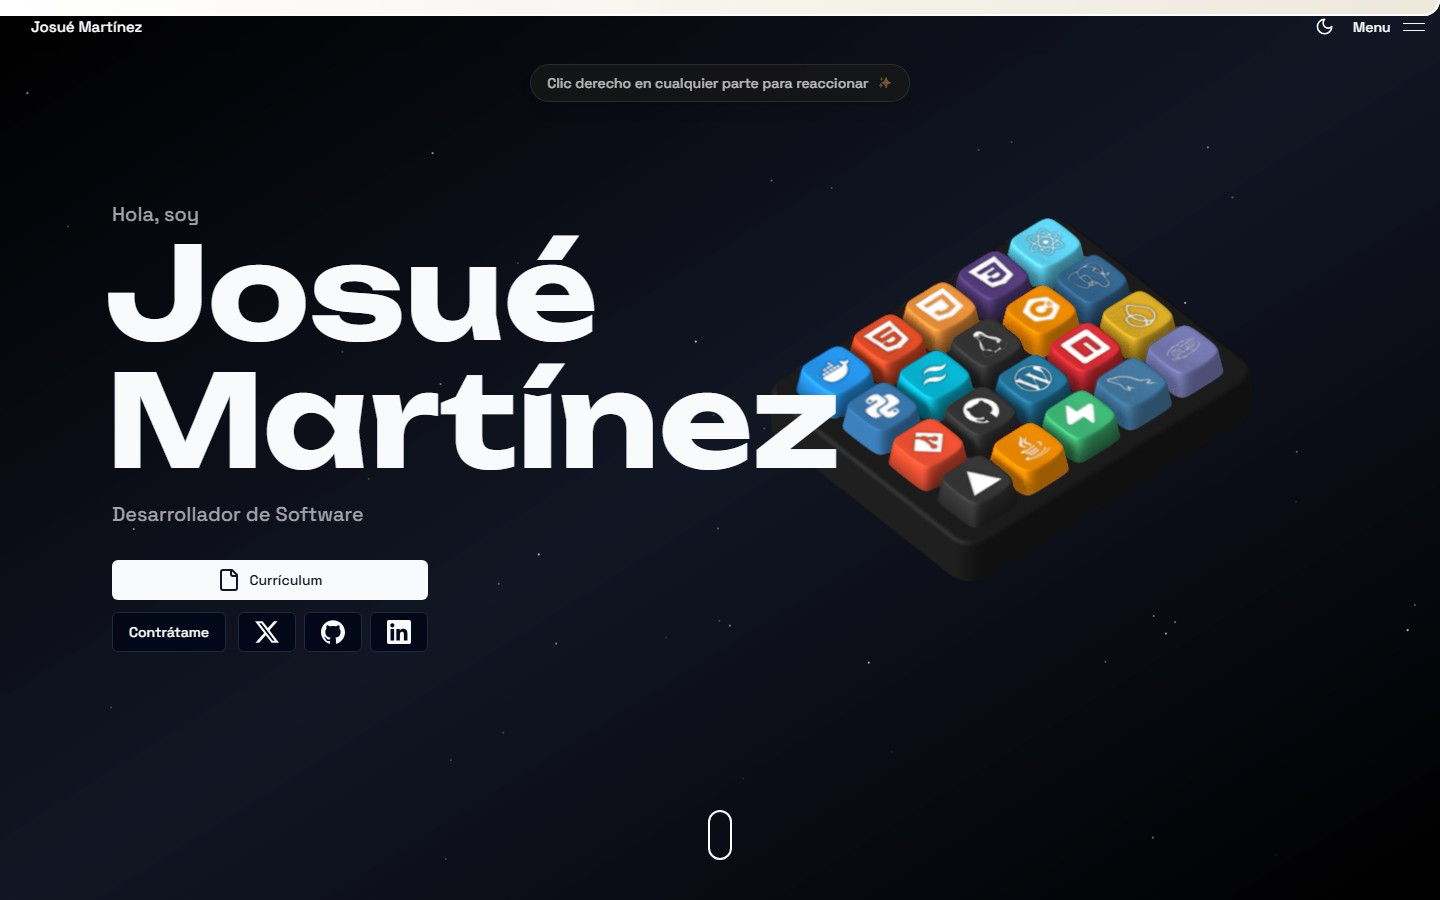
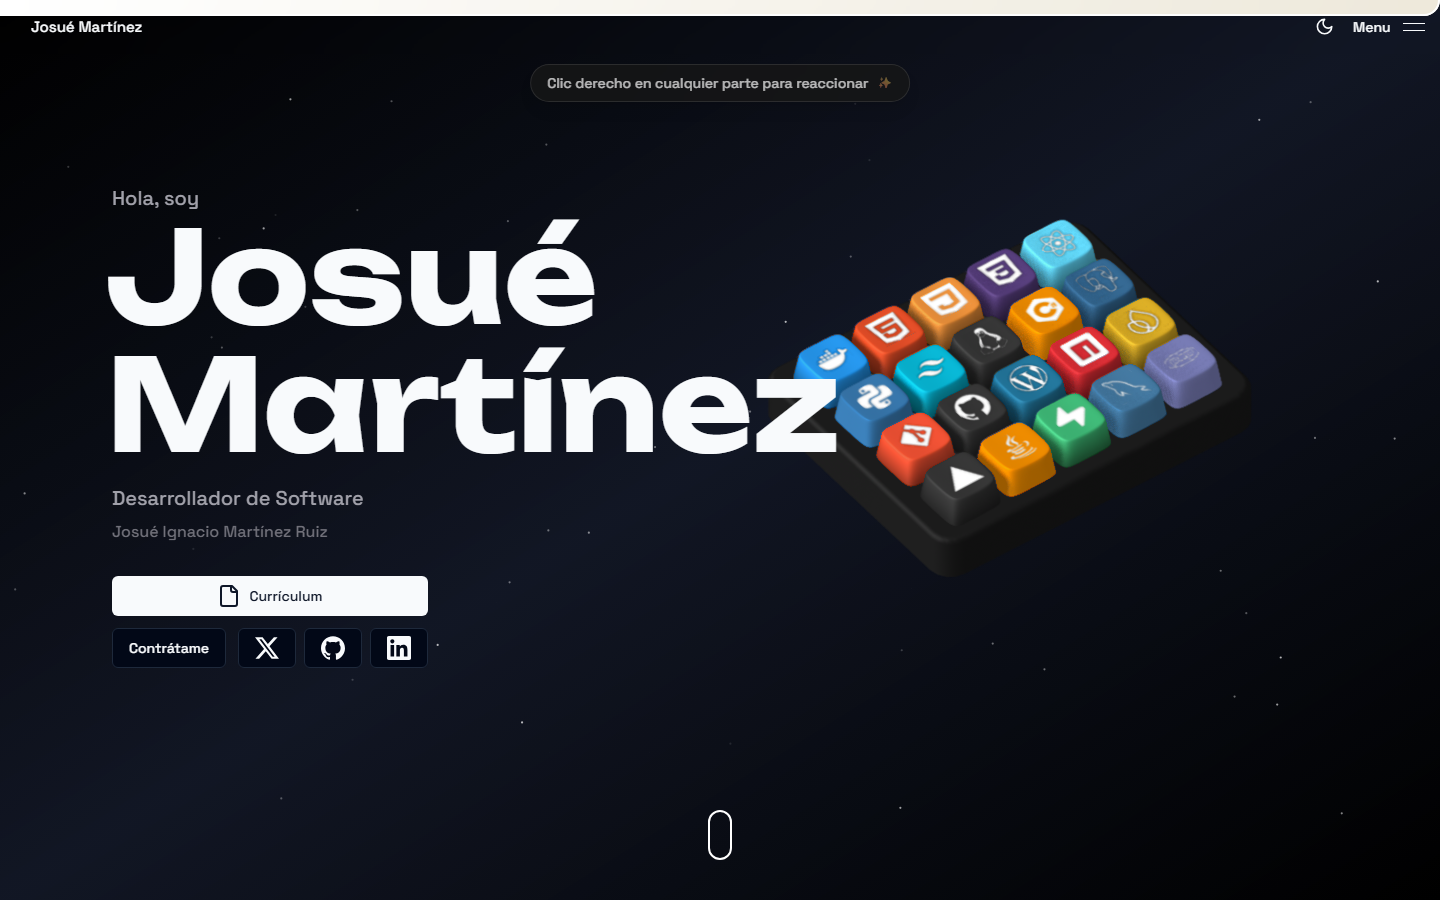
Tarea 02: nombre completo, habilidades blandas y posts del blog (WLAN, CapGuess); quita 3 proyectos

Changed region(s): [[0.0625, 0.2178, 0.875, 0.7467]]

diff --git a/src/data/projects.tsx b/src/data/projects.tsx
@@ -154,81 +154,6 @@ const projects: Project[] = [
     ),
   },
   {
-    id: "noticia-app",
-    category: "Aplicación web",
-    title: "Noticia App",
-    src: `${BASE}/noticia-app/landing.png`,
-    screenshots: [],
-    skills: {
-      frontend: [PROJECT_SKILLS.react, PROJECT_SKILLS.js, PROJECT_SKILLS.tailwind],
-      backend: [PROJECT_SKILLS.firebase],
-    },
-    live: "#",
-    github: "https://github.com/Lalocarrito/noticia-app",
-    content: (
-      <div>
-        <TypographyP className="font-mono text-2xl text-center">
-          Tablero de noticias y comentarios en tiempo real.
-        </TypographyP>
-        <TypographyP className="font-mono">
-          React 18 + Firebase Firestore con Tailwind CSS. Publica noticias por
-          grupo y coméntalas con actualizaciones en vivo (onSnapshot), con tema
-          claro/oscuro y despliegue en Firebase Hosting.
-        </TypographyP>
-      </div>
-    ),
-  },
-  {
-    id: "sistema-escolar",
-    category: "Herramienta web",
-    title: "Sistema Escolar",
-    src: `${BASE}/sistema-escolar/landing.png`,
-    screenshots: [],
-    skills: {
-      frontend: [PROJECT_SKILLS.js, PROJECT_SKILLS.tailwind],
-      backend: [],
-    },
-    live: "#",
-    github: "https://github.com/Lalocarrito/sistema_escolar",
-    content: (
-      <div>
-        <TypographyP className="font-mono text-2xl text-center">
-          Generador de registros ficticios de alumnos.
-        </TypographyP>
-        <TypographyP className="font-mono">
-          Página estática (HTML + JavaScript) que genera hasta 50,000 registros
-          de prueba en SQL (MySQL/PostgreSQL), CSV o JSON para bases de datos
-          escolares, con descarga directa del archivo.
-        </TypographyP>
-      </div>
-    ),
-  },
-  {
-    id: "change-extension",
-    category: "Script",
-    title: "Change Extension",
-    src: `${BASE}/change-extension/landing.png`,
-    screenshots: [],
-    skills: {
-      frontend: [PROJECT_SKILLS.python],
-      backend: [],
-    },
-    live: "#",
-    github: "https://github.com/Lalocarrito/change-extension",
-    content: (
-      <div>
-        <TypographyP className="font-mono text-2xl text-center">
-          Renombrador por lote de extensiones de archivo.
-        </TypographyP>
-        <TypographyP className="font-mono">
-          Script de Python con diálogo gráfico (Tkinter) que renombra la
-          extensión de todos los archivos de una carpeta, mostrando cuántos
-          encontró y pidiendo confirmación antes de aplicar los cambios.
-        </TypographyP>
-      </div>
-    ),
-  },
-  {
     id: "bin2dec",
     category: "Aplicación de escritorio",
     title: "Bin2Dec",

diff --git a/src/components/sections/soft-skills.tsx b/src/components/sections/soft-skills.tsx
@@ -1,0 +1,82 @@
+import { SectionHeader } from "./section-header";
+import SectionWrapper from "../ui/section-wrapper";
+import { Card, CardContent } from "@/components/ui/card";
+import {
+  Users,
+  MessageSquare,
+  Lightbulb,
+  RefreshCw,
+  BookOpen,
+  Clock,
+} from "lucide-react";
+
+const SOFT_SKILLS = [
+  {
+    icon: Users,
+    title: "Trabajo en equipo",
+    desc: "Colaboro en proyectos con Git/GitHub y dinámicas de equipo.",
+  },
+  {
+    icon: MessageSquare,
+    title: "Comunicación",
+    desc: "Explico ideas técnicas de forma clara, oral y escrita.",
+  },
+  {
+    icon: Lightbulb,
+    title: "Resolución de problemas",
+    desc: "Analizo y divido los problemas para resolverlos paso a paso.",
+  },
+  {
+    icon: RefreshCw,
+    title: "Adaptabilidad",
+    desc: "Me adapto rápido a nuevas herramientas y tecnologías.",
+  },
+  {
+    icon: BookOpen,
+    title: "Aprendizaje continuo",
+    desc: "Siempre explorando nuevas tecnologías y buenas prácticas.",
+  },
+  {
+    icon: Clock,
+    title: "Gestión del tiempo",
+    desc: "Organizo mis tareas y cumplo con las entregas.",
+  },
+];
+
+const SoftSkillsSection = () => {
+  return (
+    <SectionWrapper id="soft-skills" className="relative max-w-5xl mx-auto px-4 pt-24 pb-16">
+      <SectionHeader
+        id="soft-skills"
+        title="Habilidades blandas"
+        desc="Lo que aporto más allá del código."
+        className="static mb-14"
+      />
+      <div className="grid grid-cols-1 sm:grid-cols-2 lg:grid-cols-3 gap-4">
+        {SOFT_SKILLS.map((s) => {
+          const Icon = s.icon;
+          return (
+            <Card
+              key={s.title}
+              className="bg-white/70 dark:bg-black/70 backdrop-blur-sm rounded-xl hover:border-primary/20 transition-colors"
+            >
+              <CardContent className="flex items-start gap-4 p-6">
+                <span className="flex size-10 shrink-0 items-center justify-center rounded-lg bg-secondary/40">
+                  <Icon className="size-5 text-foreground/80" />
+                </span>
+                <div>
+                  <h3 className="font-semibold text-foreground mb-1">
+                    {s.title}
+                  </h3>
+                  <p className="text-sm text-muted-foreground">{s.desc}</p>
+                </div>
+              </CardContent>
+            </Card>
+          );
+        })}
+      </div>
+    </SectionWrapper>
+  );
+};
+
+export default SoftSkillsSection;

diff --git a/src/components/sections/hero.tsx b/src/components/sections/hero.tsx
@@ -79,6 +79,16 @@ const HeroSection = () => {
                     Desarrollador de Software
                   </p>
                 </BlurIn>
+                <BlurIn delay={1.3}>
+                  <p
+                    className={cn(
+                      "md:self-start mt-2 font-medium text-sm text-slate-400 dark:text-zinc-500",
+                      "cursor-default sm:text-base whitespace-nowrap"
+                    )}
+                  >
+                    {config.fullName}
+                  </p>
+                </BlurIn>
               </div>
               <div className="mt-8 flex flex-col gap-3 w-fit">
                 <Link

diff --git a/src/app/page.tsx b/src/app/page.tsx
@@ -10,6 +10,7 @@ import ProjectsSection from "@/components/sections/projects";
 import ContactSection from "@/components/sections/contact";
 import HeroSection from "@/components/sections/hero";
 import AboutSection from "@/components/sections/about";
+import SoftSkillsSection from "@/components/sections/soft-skills";
 
 function MainPage() {
   return (
@@ -18,6 +19,7 @@ function MainPage() {
       <main className={cn("bg-slate-100 dark:bg-transparent canvas-overlay-mode")}>
         <HeroSection />
         <AboutSection />
+        <SoftSkillsSection />
         <SkillsSection />
         <ExperienceSection />
         <ProjectsSection />

diff --git a/src/app/layout.tsx b/src/app/layout.tsx
@@ -31,7 +31,7 @@ export const metadata: Metadata = {
   title: config.title,
   description: config.description.long,
   keywords: config.keywords,
-  authors: [{ name: config.author }],
+  authors: [{ name: config.fullName }],
   openGraph: {
     title: config.title,
     description: config.description.short,

diff --git a/src/data/config.ts b/src/data/config.ts
@@ -20,6 +20,7 @@ const config = {
     "SQL",
   ],
   author: "Josué Martínez",
+  fullName: "Josué Ignacio Martínez Ruiz",
   email: "josuemtzruiz@icloud.com",
   site: "https://lalocarrito.github.io",
 
